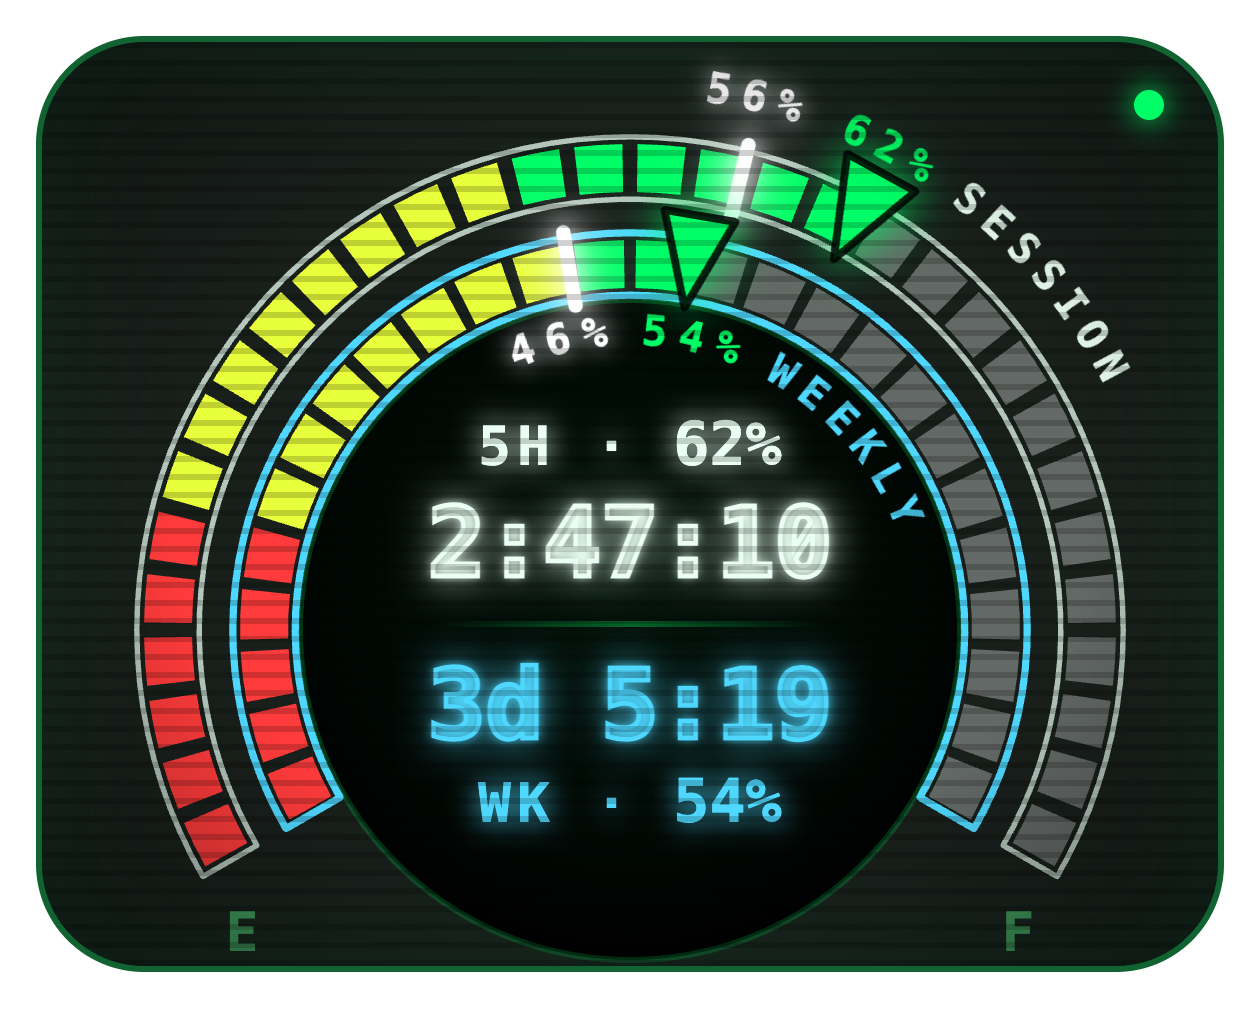
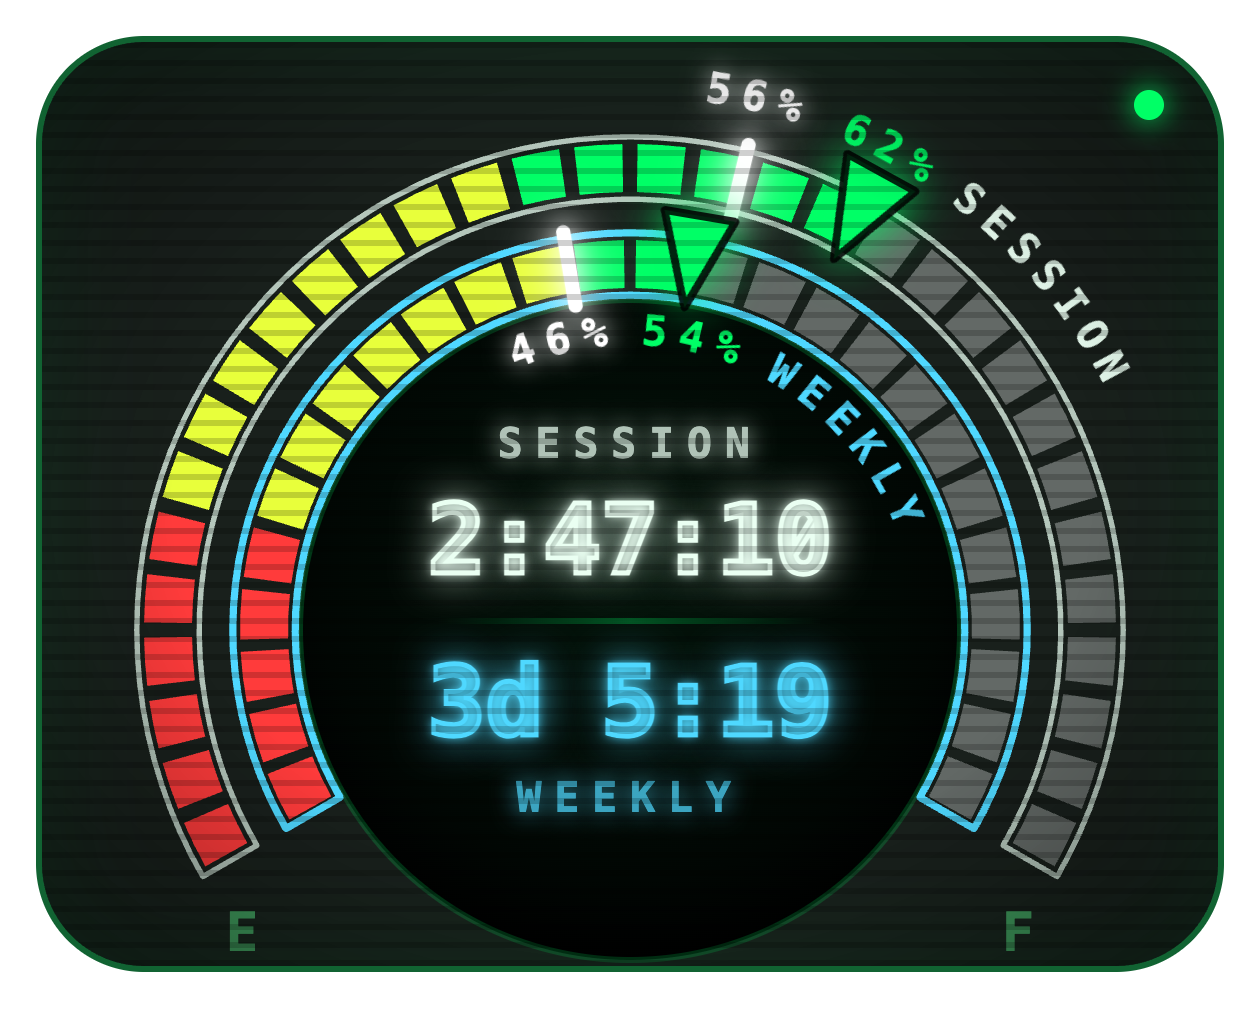
Show just the two countdowns in the centre, with small name labels

Changed region(s): [[0.3405, 0.6078, 0.65, 0.8206], [0.3405, 0.3951, 0.65, 0.5775]]

diff --git a/index.html b/index.html
@@ -27,10 +27,9 @@
   .ringlabel { font: 700 7px ui-monospace, Menlo, monospace; letter-spacing: .25em; white-space: pre; }
   .timelabel { fill: #fff; filter: drop-shadow(0 0 2px #fff); }
 
-  /* Centre readouts: caption · big outlined time, kept well inside the inner ring. */
+  /* Centre readouts: the two countdowns, each with a small name (above session, below week). */
   .face { position: absolute; left: 0; right: 0; top: 55px; text-align: center; font-variant-numeric: tabular-nums; }
-  .cap { font-size: 9px; font-weight: 700; letter-spacing: .12em; line-height: 12px; text-shadow: 0 0 5px currentColor; }
-  .cap b { letter-spacing: 0; font-size: 10px; }
+  .cap { font-size: 7px; font-weight: 700; letter-spacing: .3em; line-height: 12px; opacity: .75; text-shadow: 0 0 4px currentColor; }
   .time { font: 700 16px ui-monospace, "SF Mono", Menlo, monospace; line-height: 20px; white-space: nowrap;
           -webkit-text-stroke: .8px currentColor; text-shadow: 0 0 2px currentColor, 0 0 7px currentColor; }
   .s { color: var(--s); } .w { color: var(--w); }
@@ -74,11 +73,11 @@
       <g class="needle" id="timeS" style="visibility: hidden"></g><g class="needle" id="timeW" style="visibility: hidden"></g><g class="needle" id="needleW"></g><g class="needle" id="needleS"></g>
     </svg>
     <div class="face">
-      <div class="cap s">5H · <b id="pct">–</b></div>
+      <div class="cap s">SESSION</div>
       <div class="time s" id="count">-:--:--</div>
       <div class="rule"></div>
       <div class="time w" id="wcount"></div>
-      <div class="cap w">WK · <b id="wpct">–</b></div>
+      <div class="cap w">WEEKLY</div>
     </div>
   </div>
 </div>
@@ -125,7 +124,7 @@
       n += shift; t += shift;
     }
     // Name: in the free stretch of the zone that lets it sit closest to the arrow's number. If none fits,
-    // WEEKLY drops to the bottom of the dial (under the WK caption); SESSION is just hidden.
+    // WEEKLY drops to the bottom of the dial (under the countdowns); SESSION is just hidden.
     const taken = [[n - wNum / 2, n + wNum / 2], [t - wTime / 2, t + wTime / 2]].sort((a, b) => a[0] - b[0]);
     const free = [[z0, taken[0][0] - gap], [taken[0][1] + gap, taken[1][0] - gap], [taken[1][1] + gap, z1]];
     let best = null;
@@ -219,24 +218,6 @@
     $("mark" + k).style.visibility = "visible";
   }
 
-  // ---- Effects ----
-  const GLYPHS = "ｱｲｳｴｵｶｷｸｹｺｻｼｽｾｿﾀﾁﾂﾃﾄﾅﾆﾇﾈﾉﾊﾋﾌﾍﾎﾏﾐﾑﾒﾓﾔﾕﾖﾗﾘﾙﾚﾛﾜﾝ0123456789Z:<>=*+";
-  const glyph = () => GLYPHS[Math.floor(Math.random() * GLYPHS.length)];
-
-
-  // Decode effect: characters cycle through glyphs before landing on the new value.
-  function scramble(el, text) {
-    if (el.dataset.v === text) return;
-    el.dataset.v = text;
-    clearInterval(el._t);
-    let n = 0;
-    el._t = setInterval(() => {
-      n++;
-      el.textContent = [...text].map((c, i) => (i < n / 2 ? c : glyph())).join("");
-      if (n / 2 >= text.length) { clearInterval(el._t); el.textContent = text; }
-    }, 45);
-  }
-
   function dur(ms) {
     const m = Math.max(0, Math.round(ms / 60e3)), d = Math.floor(m / 1440), h = Math.floor(m % 1440 / 60);
     return d ? `${d}d ${h}h` : h ? `${h}h ${String(m % 60).padStart(2, "0")}m` : `${m}m`;
@@ -280,12 +261,10 @@
       const p = pace(s, SESSION_MS);
       const leftPct = Math.max(0, 100 - p.used);
       setDial("S", leftPct, p.elapsed);
-      scramble($("pct"), Math.round(leftPct) + "%");
       $("count").textContent = hms(p.left);
       $("count").classList.toggle("soon", p.left < 15 * 60e3);
       tip.push(`5H SESSION (outer ring): ${Math.round(leftPct)}% left · ${PACES[p.kind].text} · ${p.note}`);
     } else {
-      $("pct").textContent = Math.round(100 - (s?.utilization ?? 0)) + "%";
       $("count").textContent = "-:--:--";
       $("markS").style.visibility = "hidden";
       $("timeS").style.visibility = $("numS").style.visibility = "hidden";
@@ -296,7 +275,6 @@
       const p = pace(w, WEEK_MS);
       const wleft = Math.max(0, 100 - p.used);
       setDial("W", wleft, p.elapsed);
-      scramble($("wpct"), Math.round(wleft) + "%");
       // Days away: "3d 4:47" (no seconds). Under a day: full ticking countdown.
       $("wcount").textContent = p.left >= 86400e3 ? hms(p.left).replace(/:\d\d$/, "") : hms(p.left);
       tip.push(`WEEK (inner ring): ${Math.round(wleft)}% left · ${PACES[p.kind].text} · ${p.note}\nWeek resets ` +
